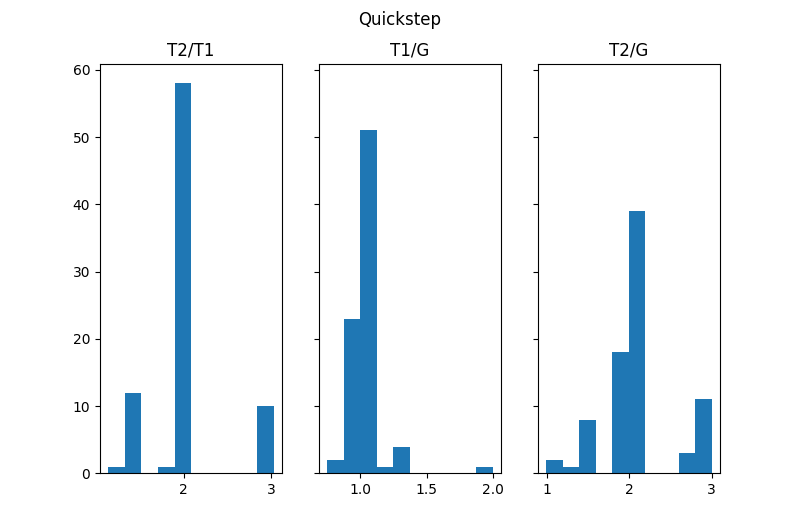
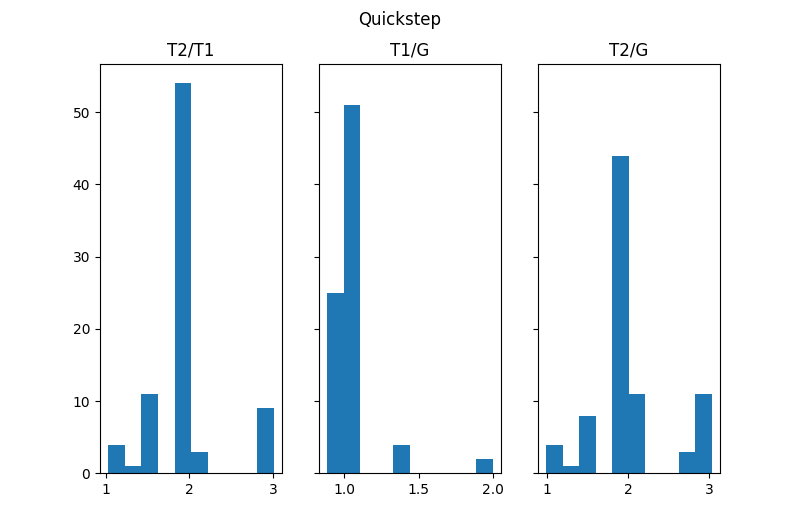
update some result using window size 2000 in question 1.

diff --git a/Q6.py b/Q6.py
@@ -8,14 +8,14 @@ from utils import data_dir, bpm_label_dir, genres, p_score, stacf, spectral_flux
     harmonic_sum_tempogram
 
 
-def CFP(nv_curve, sr, wsize_f, wsize_t, hop_f, hop_t=None):
+def CFP(nv_curve, sr, wsize_f, wsize_t, hop_f, hop_t=None, harms=4, alpha=1.):
     tpg_f = np.abs(stft(nv_curve, n_fft=wsize_f, hop_length=hop_f))
     freq_f = np.arange(wsize_f // 2 + 1) * sr / wsize_f * 60
-    freq_f, tpg_f = harmonic_sum_tempogram(freq_f, tpg_f, harms=4, alpha=1.)
+    freq_f, tpg_f = harmonic_sum_tempogram(freq_f, tpg_f, harms=harms, alpha=alpha)
     tpg_f = normalize(tpg_f)
 
     lag, _, tpg_t = stacf(nv_curve, sr, wsize_t, hop_size=hop_t)
-    #lag, tpg_t = harmonic_sum_tempogram(lag, tpg_t, harms=2, alpha=2.)
+    #lag, tpg_t = harmonic_sum_tempogram(lag, tpg_t, harms=2, alpha=1.)
     tpg_t = normalize(tpg_t)
     freq_t = 60 / lag[1:]
     freq_t = np.concatenate(([0], freq_t))
@@ -54,7 +54,7 @@ if __name__ == '__main__':
                     data, sr = load(os.path.join(dir, file_name), sr=None)
                     hop_size = sr // lw_sr
                     t, nv_curve = spectral_flux(data, sr, hop_size, window_size, g, mean_size, lag=1)
-                    f, tpg = CFP(nv_curve, lw_sr, wsize_f=1000, wsize_t=512, hop_f=50)
+                    f, tpg = CFP(nv_curve, lw_sr, wsize_f=2000, wsize_t=512, hop_f=50)
                     t1, t2, s1 = tempo_estimation(f, tpg)
 
                     with open(os.path.join(bpm_label_dir,

diff --git a/Q7.py b/Q7.py
@@ -84,9 +84,13 @@ if __name__ == '__main__':
                     data, sr = load(os.path.join(dir, file_name), sr=None)
                     hop_size = sr // lw_sr
                     t, nv_curve = spectral_flux(data, sr, hop_size, 1024, 1, 25, lag=1)
-                    f, tpg = CFP(nv_curve, lw_sr, 1000, 512, 50)
+                    f, tpg = CFP(nv_curve, lw_sr, 2000, 512, 50)
                     t1, t2, s1 = tempo_estimation(f, tpg)
-                    delta = 60 / t1 * lw_sr
+                    if s1 > 0.5:
+                        delta = t1
+                    else:
+                        delta = t2
+                    delta = 60 / delta * lw_sr
                     beats = optimal_beats_sequence(nv_curve, delta, ld)
                     label = np.loadtxt(os.path.join(beat_label_dir, file_name.replace('.wav', '.beats').split('/')[-1]))
                     score.append(evaluate(label[:, 0], t[beats]))

diff --git a/Q1-3.py b/Q1-3.py
@@ -35,8 +35,8 @@ if __name__ == '__main__':
                     data, sr = load(os.path.join(dir, file_name), sr=None)
                     hop_size = sr // lw_sr
                     t, nv_curve = spectral_flux(data, sr, hop_size, window_size, g, mean_size, lag=1)
-                    f, tpg = tempogram_f(nv_curve, lw_sr, window_size=1000, hop_size=50)
-                    #f, tpg = harmonic_sum_tempogram(f, tpg)
+                    f, tpg = tempogram_f(nv_curve, lw_sr, window_size=2000, hop_size=50)
+                    f, tpg = harmonic_sum_tempogram(f, tpg, 4, 1.)
                     t1, t2, s1 = tempo_estimation(f, tpg)
 
                     with open(os.path.join(bpm_label_dir,

diff --git a/utils.py b/utils.py
@@ -69,7 +69,7 @@ def tempo_estimation(freq_scale, tempogram):
     return pack[0][1], pack[1][1], s1
 
 
-def harmonic_sum_tempogram(freq_scale, tempogram, harms=4, alpha=1.):
+def harmonic_sum_tempogram(freq_scale, tempogram, harms, alpha):
     tpg = tempogram[:len(freq_scale) // harms, :]
     weights = np.power(alpha, -np.arange(1, harms))
     for i in range(1, tpg.shape[0]):
